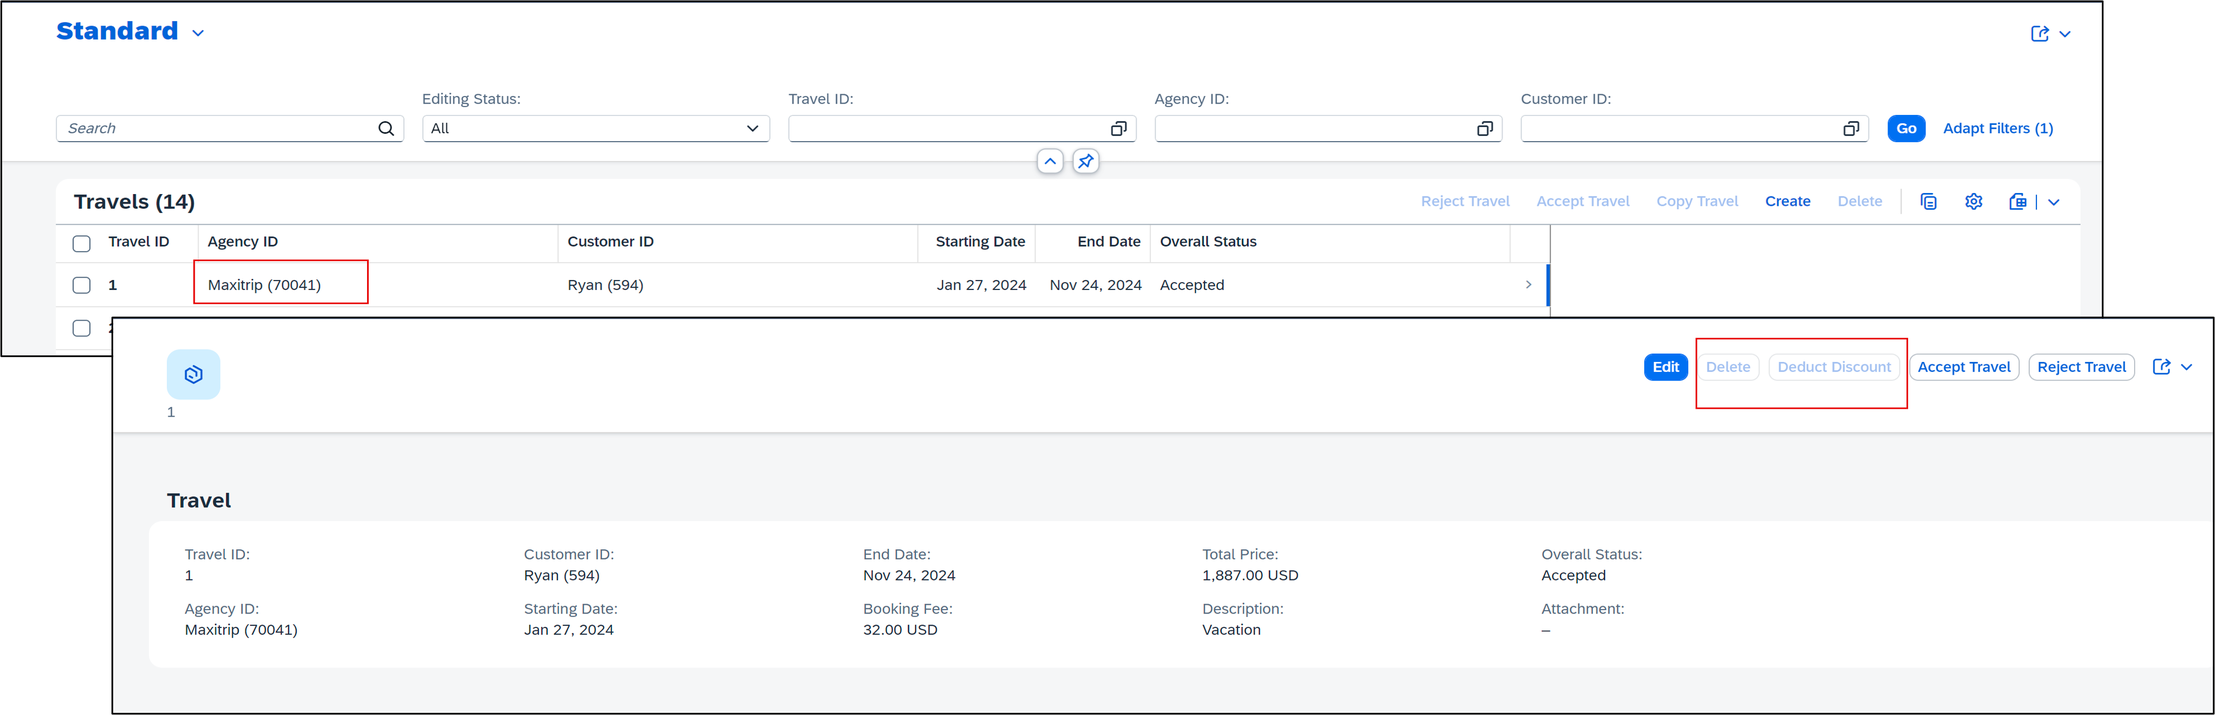
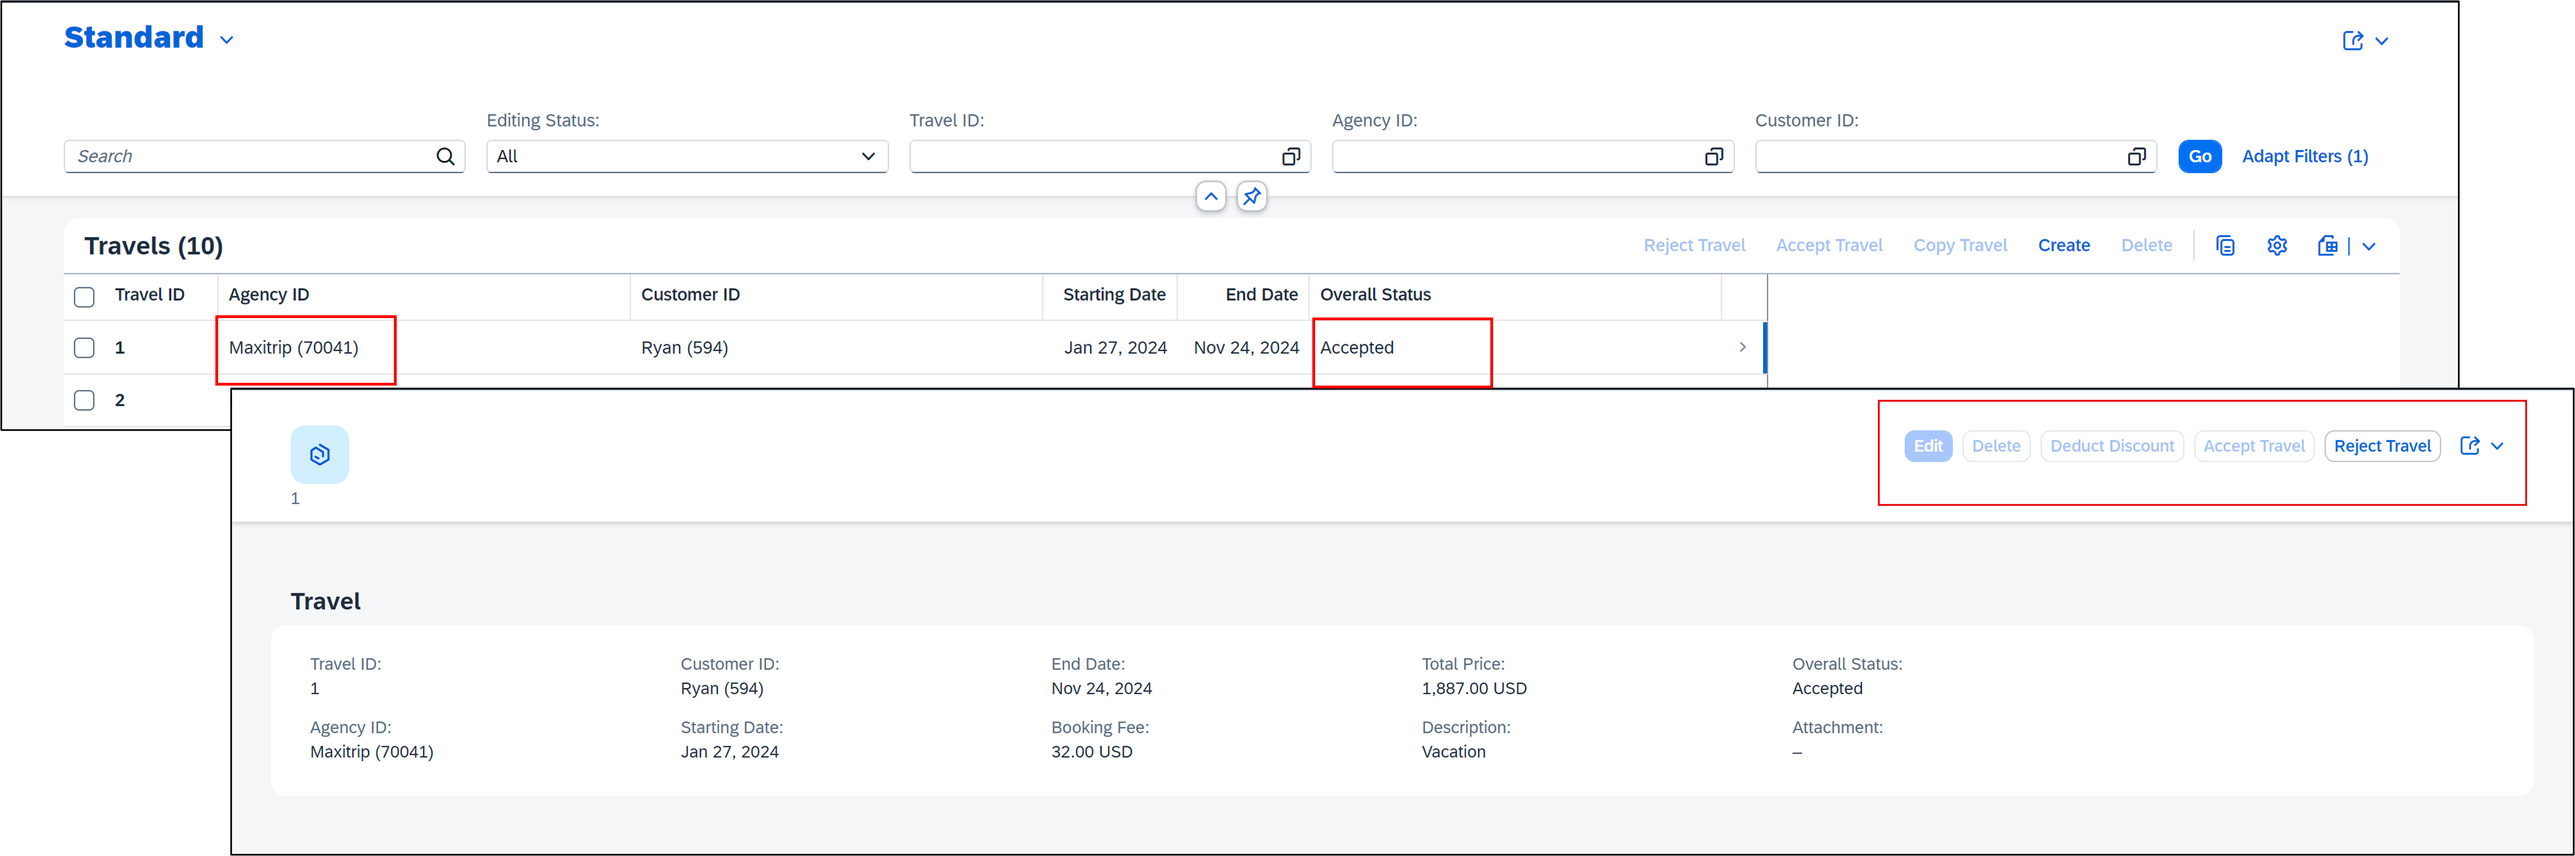
rap100 update
-

diff --git a/tutorials/abap-environment-rap100-dynamic-feature-control/abap-environment-rap100-dynamic-feature-control.md b/tutorials/abap-environment-rap100-dynamic-feature-control/abap-environment-rap100-dynamic-feature-control.md
@@ -146,12 +146,12 @@ Define the dynamic instance feature control for the standard operations **`updat
                                                             THEN if_abap_behv=>fc-o-disabled ELSE if_abap_behv=>fc-o-enabled   )
                             %features-%delete      = COND #( WHEN travel-OverallStatus = travel_status-open
                                                             THEN if_abap_behv=>fc-o-enabled ELSE if_abap_behv=>fc-o-disabled   )
-    *                        %action-Edit           = COND #( WHEN travel-OverallStatus = travel_status-accepted
-    *                                                         THEN if_abap_behv=>fc-o-disabled ELSE if_abap_behv=>fc-o-enabled   )
-    *                        %action-acceptTravel   = COND #( WHEN travel-OverallStatus = travel_status-accepted
-    *                                                          THEN if_abap_behv=>fc-o-disabled ELSE if_abap_behv=>fc-o-enabled   )
-    *                        %action-rejectTravel   = COND #( WHEN travel-OverallStatus = travel_status-rejected
-    *                                                          THEN if_abap_behv=>fc-o-disabled ELSE if_abap_behv=>fc-o-enabled   )
+                            %action-Edit           = COND #( WHEN travel-OverallStatus = travel_status-accepted
+                                                             THEN if_abap_behv=>fc-o-disabled ELSE if_abap_behv=>fc-o-enabled   )
+                            %action-acceptTravel   = COND #( WHEN travel-OverallStatus = travel_status-accepted
+                                                              THEN if_abap_behv=>fc-o-disabled ELSE if_abap_behv=>fc-o-enabled   )
+                            %action-rejectTravel   = COND #( WHEN travel-OverallStatus = travel_status-rejected
+                                                              THEN if_abap_behv=>fc-o-disabled ELSE if_abap_behv=>fc-o-enabled   )
                             %action-deductDiscount = COND #( WHEN travel-OverallStatus = travel_status-open
                                                               THEN if_abap_behv=>fc-o-enabled ELSE if_abap_behv=>fc-o-disabled   )
                         ) ).
@@ -181,13 +181,13 @@ For example, select a **travel** instance has the overall status **Accepted**, a
 
 Remember the implemented dynamic BO behavior expected on the UI:
 
-  If a **travel** instance has the overall status **Accepted** **(A)**  or **Rejected** **(X)**, then the button **Edit** and **Delete** must be disabled for the given instance.
+  If a **travel** instance has the overall status **Accepted** **(A)**  or **Rejected** **(X)**, then the button **Edit**, **Delete** and **Deduct Discount** must be disabled for the given instance.
 
   In addition, following toggle behavior (enable/disable) should be displayed for both instance actions:
     - If the overall status **Accepted** **(A)**, then the action **Accept Travel** must be disabled.
     - If the overall status **Rejected** **(X)**, then the action **Reject Travel** must be disabled
 
-   ![Travel App Preview](preview10.png)
+   ![Travel App Preview](preview10x.png)
  
 
 

diff --git a/tutorials/abap-environment-rap100-instance-action/abap-environment-rap100-instance-action.md b/tutorials/abap-environment-rap100-instance-action/abap-environment-rap100-instance-action.md
@@ -95,7 +95,7 @@ You will get familiar with both action implementations, i.e. action without and 
 
   6. In the declaration part set the cursor on the method name `deductDiscount`, press F2, and examine the full method interface.
   
-     ![Travel BO Behavior Pool](nn5.png)
+     ![Travel BO Behavior Pool](nn5x.png)
 
       Short explanation:
 
@@ -268,12 +268,12 @@ An abstract CDS entity defines the type properties of a CDS entity. Consequently
 
  1. Let's have a look at the abstract entity defined in the data definition `/DMO/A_Travel_Discount`. You can use the shortcut `Ctrl+Shift+A` to open the data definition.
 
-    ![CDS BO Behavior Definition](nn10.png)
+    ![CDS BO Behavior Definition](nn10x.png)
 
     Short explanation:
 
     - An abstract entity is defined by the statement define abstract entity followed by the CDS entity name.
-    - The current abstract entity defines a structure with only one field or element; The element name ( `discount_percent` ) and the element type ( `abap.int1` ) are specified.
+    - The current abstract entity defines a structure with only one field or element; The element name ( `discount_percent` ) and the element type ( `/DMO/BT_DiscountPercentage` ) are specified.
     - It is not here the case, but if required, it is possible to...
       - specify a label using the element annotation `@EndUserText.label`.
       - specify a value help using the element annotation `@Consumption.valueHelpDefinition`.

diff --git a/tutorials/abap-environment-rap100-early-numbering/abap-environment-rap100-early-numbering.md b/tutorials/abap-environment-rap100-early-numbering/abap-environment-rap100-early-numbering.md
@@ -107,7 +107,7 @@ You will now implement the logic for the unmanaged internal early numbering in b
 
     For that, set the cursor on the method name and press **F2** to open the **ABAP Element Info** view and examine the full method interface, for example, the importing and changing parameters. You can navigate to the different (derived) types.
 
-    ![Travel BO Behavior Pool](new10.png)
+    ![Travel BO Behavior Pool](new10x.png)
 
     Signature of the **FOR NUMBERING** method for managed business objects:
 
@@ -142,7 +142,7 @@ You will now implement the logic for the unmanaged internal early numbering in b
     DELETE entities_wo_travelid WHERE TravelID IS NOT INITIAL.
     ```
 
-    ![Travel BO Behavior Pool](n11.png)
+    ![Travel BO Behavior Pool](n11x.png)
 
  3. Get the exact number range for the new ID according to number of relevant **Travel** entity instances stored in the internal table **`entities_wo_travelid`** and determine the current max ID. The number range object **`/DMO/TRV_M`** of the **ABAP Flight Reference Scenario** (located in the package `/DMO/FLIGHT_REUSE`) is used in the example implementation provided below.
 

diff --git a/tutorials/abap-environment-rap100-factory-action/abap-environment-rap100-factory-action.md b/tutorials/abap-environment-rap100-factory-action/abap-environment-rap100-factory-action.md
@@ -87,7 +87,7 @@ Implement the instance factory action `coyTravel` in the base BO behavior pool.
 
  2. Go to the declaration part of the local handler class of the behavior pool `ZRAP100_BP_TRAVELTP_###`, set the cursor on the method name, `copyTravel`, press F2, and examine the full method interface.
 
-    ![Travel BO Behavior Projection](nn4.png)
+    ![Travel BO Behavior Projection](nn4x.png)
 
  3. Implement the factory action `copyTravel` in the behavior pool class icon `ZRAP100_BP_TRAVELTP_###`. The implementation method of a factory action imports the parameter structure `%param` which has the component `%is_draft`. This component can be used by calling EML APIs to indicates the state of the new instance to be created:
     

diff --git a/tutorials/abap-environment-rap100-validation/abap-environment-rap100-validation.md b/tutorials/abap-environment-rap100-validation/abap-environment-rap100-validation.md
@@ -120,7 +120,7 @@ An appropriate message should be raised and displayed on the UI for each invalid
 
     For that, set the cursor on the method name, **`validateCustomer`**, press **F2** to open the **ABAP Element Info** view, and examine the full method interface.
 
-    ![Travel BO Behavior Pool](v3.png)  
+    ![Travel BO Behavior Pool](v3x.png)  
 
      **Short explanation**:  
 

diff --git a/tutorials/abap-environment-rap100-determination/abap-environment-rap100-determination.md b/tutorials/abap-environment-rap100-determination/abap-environment-rap100-determination.md
@@ -114,7 +114,7 @@ You will now implement the logic of the defined determination in the behavior po
       END OF travel_status.    
     ```
 
-    ![Travel BO Behavior Pool](s3.png)
+    ![Travel BO Behavior Pool](new10x.png)
 
  3. Now implement the method **`setStatusToOpen`** in the implementation part of the class.
 
